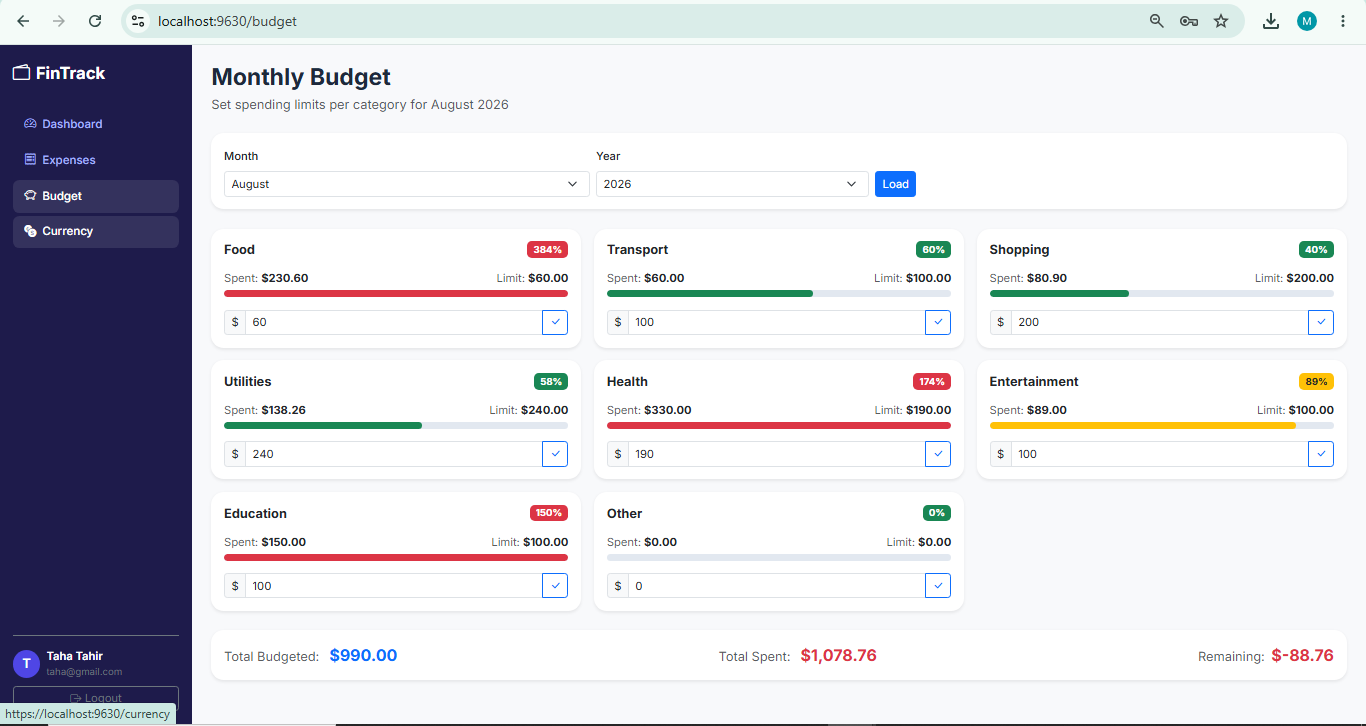
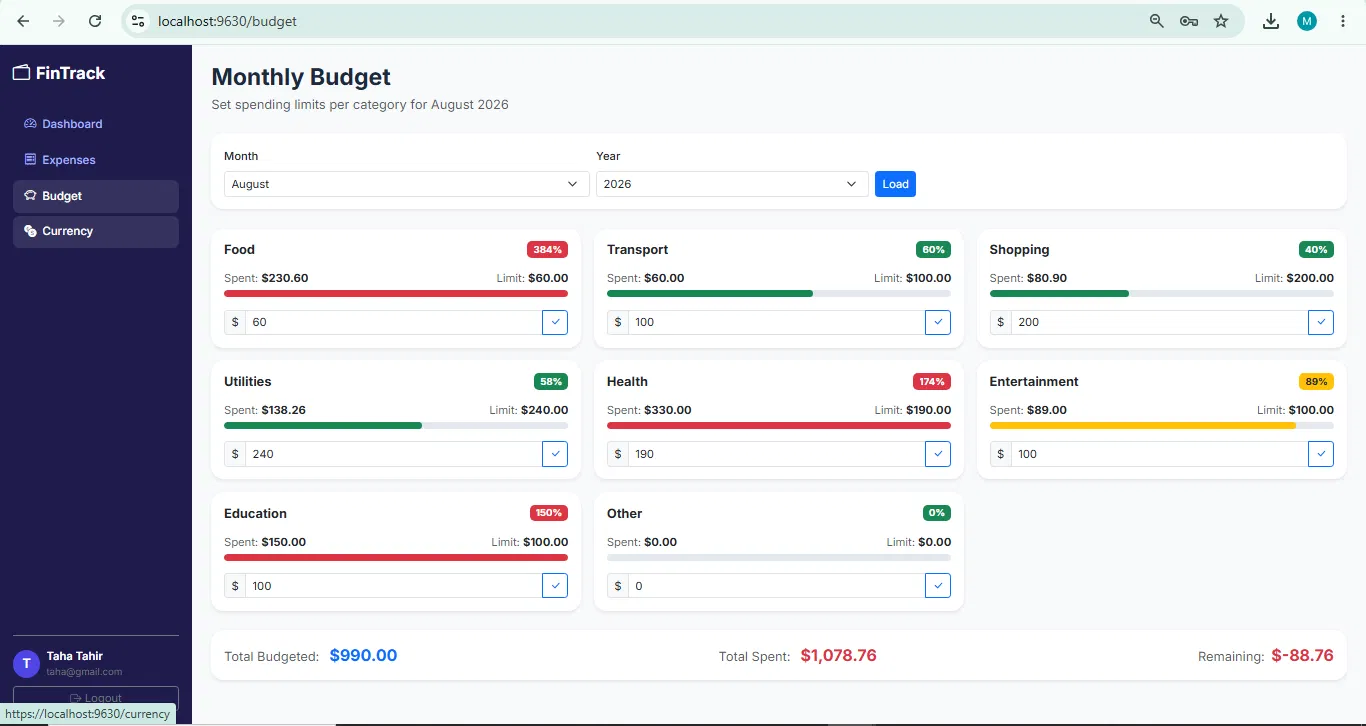
updated screenshots

diff --git a/README.md b/README.md
@@ -28,7 +28,7 @@ Spend summary, category breakdown, and daily spending across the month.
 
 ### Budget Alerts
 
-Progress bars shift **green → yellow → red** as a category approaches and exceeds its limit. Here: Transport and Utilities are healthy, Entertainment is at 89% (yellow), and Food, Health and Education are over budget (red).
+Progress bars shift **green → yellow → red** as a category approaches and exceeds its limit. Here: Transport, Shopping and Utilities are healthy, Entertainment is at 89% (yellow), and Food, Health and Education are over budget (red).
 
 ![Budget vs spending](docs/screenshots/dashboard-budgets.png)
 
